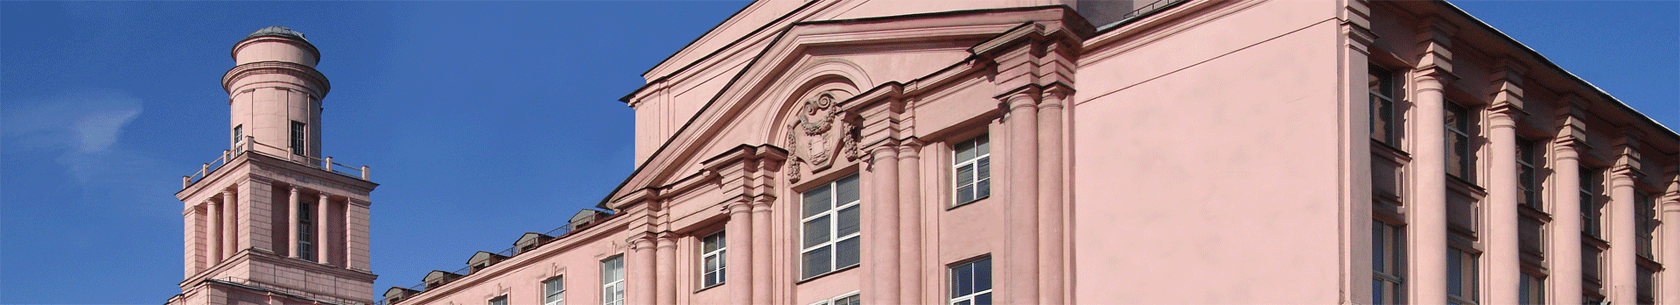
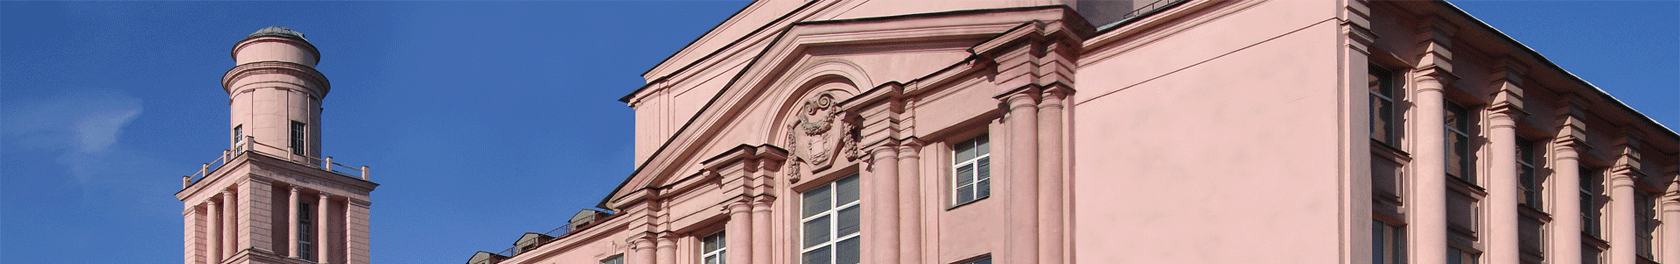
update

diff --git a/app/public/js/controllers.js b/app/public/js/controllers.js
@@ -388,17 +388,15 @@ function NewsCtrl($scope, $routeParams, Courses) {
 
 }
 
-function ShelfCtrl($scope, $routeParams, $timeout, Courses) {
-    
-    var index = 0;
+function ShelfCtrl($scope, $routeParams, Courses) {
+    $scope.currentEdit = -1;
 
-    $scope.posts = Courses.query({courseId: $routeParams.courseId,
+    $scope.posts = Courses.query({
+        courseId: $routeParams.courseId,
         partId: $routeParams.partId},function(){
             //$scope.updateToc();
         });
         
-    //$scope.posts = ["Заголовок 1", "Заголовок длинный 2", "Заголовок очень длинный 3", "Заголовок 4", "Заголовок 5", "Заголовок 6", "Заголовок 7", "Заголовок 8", "Заголовок 9"];
-
     // jQuery UI Sortable
     $scope.dragStart = function(e, ui) {
         ui.item.data('start', ui.item.index());
@@ -409,40 +407,76 @@ function ShelfCtrl($scope, $routeParams, $timeout, Courses) {
 
         $scope.posts.splice(end, 0,
                 $scope.posts.splice(start, 1)[0]);
-                
-        //console.log($scope.posts[start].index);
-        //console.log($scope.posts[end].index);
-        
-        //$scope.posts[end].index = ($scope.posts[end-1].index+$scope.posts[end+1].index)/2;
 
         $scope.$apply();
-        
-        //$scope.updateToc();
     };
     $('#sortable').sortable({
         start: $scope.dragStart,
         update: $scope.dragEnd
     });
     
+    $scope.isEditor = function(id) {
+        if ($scope.currentEdit === id)
+            return true;
+        else
+            return false;
+    };
+    
+    $scope.edit = function(id) {
+        $scope.currentEdit = id;
+        if (id >= 0) {
+            $scope.curr = {
+                //id: $scope.posts[id]._id,
+                title: $scope.posts[id].title,
+                text: $scope.posts[id].text,
+                date: $scope.posts[id].date,
+                author: $scope.posts[id].author
+            };
+            $('#sortable').sortable("disable");
+        } else {
+            delete $scope.curr;
+            $('#sortable').sortable("enable");
+        }
+    };
+    
     $scope.add = function(id) {
-        $scope.posts.splice(id+1,0,{
+        if (typeof id === 'undefined') {
+            id = $scope.posts.length-1;
+        };
+        var post = {
             title: "Заголовок "+$scope.posts.length,
-            text: "Содержание... ",
-            index: index,
-            date: new Date(),
-            author: "anton"
+            text: "Содержание... "
+        };
+        var newPost = new Courses(post);
+        newPost.$save({courseId: $routeParams.courseId,
+            partId: $routeParams.partId}, function(data) {
+            $scope.posts.splice(id+1,0,data);
         });
-        index = index + 100;
-        //$scope.updateToc();
     };
     
     $scope.del = function(id) {
-        this.destroy(function() {
-            $scope.posts.splice(id, 1);
-            //$scope.updateToc();
+        var scope = this;
+        Courses.remove({courseId: $routeParams.courseId,
+            partId: $routeParams.partId,
+            itemId: $scope.posts[id]._id}, function() {
+            scope.destroy(function() {
+                $scope.posts.splice(id, 1);
+            });
         });
     };
     
+    $scope.update = function(id) {
+        var newPost = new Courses($scope.curr);
+        newPost.$update({courseId: $routeParams.courseId,
+            partId: $routeParams.partId,
+            itemId: $scope.posts[id]._id}, function() {
+            $scope.posts[id].title = $scope.curr.title;
+            $scope.posts[id].text = $scope.curr.text;
+            $scope.edit(-1);
+        });
+    };
+    
+    // title of content
     $scope.updateToc = function() {
         if(!$scope.$$phase) {
             $scope.$apply();
@@ -461,9 +495,4 @@ function ShelfCtrl($scope, $routeParams, $timeout, Courses) {
             });
         });
     };
-    
-    // fixme: update wrong
-    $scope.$watch("posts", function() {
-        return $scope.updateToc();
-    }, true);
 }

diff --git a/app/public/courses/tpl/shelf.html b/app/public/courses/tpl/shelf.html
@@ -70,34 +70,34 @@
 
     <div id="sortable">
         <div ng-repeat="item in posts" class="post-item" style="background-color: #fff" fadey="500">
-        <div ng-hide="isEditor($index)" class="box">
-            <div class="toolbar">
-                <a class="button" ng-click="add($index)" title="добавить"><i class="icon-plus"></i></a>
-                <a class="button" ng-click="edit($index)" title="править"><i class="icon-pencil"></i></a>
-                <a class="button" ng-click="del($index)" title="удалить"><i class="icon-trash"></i></a>
+            <div ng-hide="isEditor($index)" class="box">
+                <div class="toolbar">
+                    <a class="button" ng-click="add($index)" title="добавить"><i class="icon-plus"></i></a>
+                    <a class="button" ng-click="edit($index)" title="править"><i class="icon-pencil"></i></a>
+                    <a class="button" ng-click="del($index)" title="удалить"><i class="icon-trash"></i></a>
+                </div>
+                <h3 class="title">{{item.title}}</h3>
+                <div class="desc" ng-bind-html-unsafe="item.text"></div>
+                <div style="font-size: small; text-align: right">
+                    <span class="date">{{item.author}}</span>,
+                    <span class="date">{{item.date | dateToText}}</span>
+                </div>
             </div>
-            <h3 class="title">{{item.title}}</h3>
-            <div class="desc" ng-bind-html-unsafe="item.text"></div>
-            <div style="font-size: small; text-align: right">
-                <span class="date">{{item.author}}</span>,
-                <span class="date">{{item.date | dateToText:'time'}}</span>
+            <div ng-show="isEditor($index)" class="box">
+                <div class="toolbar">
+                    <a class="button" ng-click="update($index)" title="сохранить"><i class="icon-download-alt"></i></a>
+                    <a class="button" ng-click="edit(-1)" title="закрыть"><i class="icon-remove"></i></a>
+                </div>
+                <input type="text" ng-model="curr.title" class="title-editor" placeholder="Заголовок">
+                <p class="date-editor">{{curr.date | dateToText}}</p>
+                <textarea class="desc-editor" ng-model="curr.text"></textarea>
             </div>
-        </div>
-        <div ng-show="isEditor($index)" class="box">
-            <div class="toolbar">
-                <a class="button" ng-click="update($index)" title="сохранить"><i class="icon-download-alt"></i></a>
-                <a class="button" ng-click="edit(-1)" title="закрыть"><i class="icon-remove"></i></a>
-            </div>
-            <input type="text" ng-model="curr.title" class="title-editor" placeholder="Заголовок">
-            <p class="date-editor">{{curr.date | dateToText:'time'}}</p>
-            <textarea class="desc-editor" ng-model="curr.text"></textarea>
-        </div>
-          
-
         </div>
     </div>
 
-    <button ng-click="add()">Add</button>
+    <button ng-show="posts.length == 0" ng-click="add()">Add</button>
+    <!--
     <hr>
     <pre ng-bind="posts|json"></pre>
+    -->
 </div>

diff --git a/app/public/tpl/home.html b/app/public/tpl/home.html
@@ -2,7 +2,7 @@
     .top-block {
         background: url('img/itmo_panorama_1680.png') no-repeat center;
         /*position: absolute;*/
-        height: 305px;
+        height: 264px;
         -webkit-background-size: cover;
         -moz-background-size: cover;
         -o-background-size: cover;
@@ -12,16 +12,16 @@
         margin-bottom: 30px;
     }
     .top-block .text-area {
-        margin: 60px 4px 0 4px;
+        margin: 45px 4px 0 4px;
         background: #04357a;
         background: rgba(4,53,122,0.85);
         border-radius: 25px;
         border-top-right-radius: 60px;
         border-bottom-right-radius: 25px;
-
+        /*
         border: 1px solid #042750;
         box-shadow: 1px 1px 20px #042750;
-
+        */
     }
     .top-block .logo-image {
         float: right;
@@ -102,7 +102,7 @@
 <div class="container">
     <!--<h3 style="color: #0f88cc; font-family: 'Jura'">Курсы</h3>-->
     <div ng-repeat="course in catalog | orderBy:'begin'" style="clear: both; margin-bottom: 20px">
-        <a class="thumbnail" href="#video" ng-click="catalog.name=course.name; catalog.video=course.video" data-toggle="modal" style="text-decoration: none; color: #333; border-radius: 25px; min-height: 160px; padding: 15px">
+        <a class="thumbnail" href="#video" ng-click="catalog.name=course.name; catalog.video=course.video" data-toggle="modal" style="text-decoration: none; color: #333; border-radius: 25px; min-height: 160px; padding: 15px;">
             <div>
                 <img ng-src="courses/{{course.id}}/img/logo.png" style="border-radius: 10px;float: left;margin: 0 20px 0px 0;">
 
@@ -111,7 +111,7 @@
                     <p><span class="circle type2">{{getDiffInWeeks(course.beginDate,course.endDate)}}</span> <span style="font-weight: bold">{{getWeekName(getDiffInWeeks(course.beginDate,course.endDate))}}</span></p>
                 </div>
 
-                <p style="color: #0f88cc; font-family: 'Jura'; font-size: x-large; padding-bottom: 5px;">{{course.name}}</p>
+                <p style="color: #0f88cc; font-family: 'Jura'; font-size: x-large; padding-bottom: 5px; font-weight: bold">{{course.name}}</p>
 
                 <p>{{course.description}}</p>
                 <p>Авторы курса: {{getAuthors(course.authors)}}</p>

diff --git a/app/routes/shelf.js b/app/routes/shelf.js
@@ -12,9 +12,11 @@ var Schema = mongoose.Schema; //Schema.ObjectId
 
 var Shelf = new Schema({
     courseid: {type: String, required: true},
-    index: { type: Number, required: true },
+    author: {type: String, required: true},
+    index: {type: Number, required: true},
     date: { type: Date, required: true },
-    context: {type: String, required: true}
+    title: {type: String, required: true},
+    text: {type: String, required: true}
 });
 
 ShelfModel = mongoose.model('Shelf', Shelf);
@@ -24,7 +26,7 @@ ShelfModel = mongoose.model('Shelf', Shelf);
  */
 
 exports.get = function(req, res) {
-    ShelfModel.find(function(err, data) {
+    ShelfModel.find().sort({ index: 1 }).exec(function(err, data) {
         if (!err) {
             res.json(data); // 200 OK + data
         } else {
@@ -39,9 +41,11 @@ exports.add = function(req, res) {
     
     var newShelf = new ShelfModel({
         courseid: req.params.courseId,
-        userid: userid,
+        author: userid,
+        index: new Date().getTime(),
         date: new Date(),
-        context: req.body.context
+        title: req.body.title,
+        text: req.body.text
     });
     newShelf.save(function(err, data) {
         if (!err) {
@@ -54,7 +58,7 @@ exports.add = function(req, res) {
 };
 
 exports.remove = function(req, res) {
-    newShelf.remove({_id: req.params.itemId, courseid: req.params.courseId},
+    ShelfModel.remove({_id: req.params.itemId, courseid: req.params.courseId},
     function(err) {
         if (!err) {
             res.send(200); // 200 OK
@@ -66,8 +70,8 @@ exports.remove = function(req, res) {
 };
 
 exports.update = function(req, res) {
-    newShelf.update({_id: req.params.itemId, courseid: req.params.courseId},
-    {date: new Date(), context: req.body.context},
+    ShelfModel.update({_id: req.params.itemId, courseid: req.params.courseId},
+    {date: new Date(), title: req.body.title, text: req.body.text},
     function(err) {
         if (!err) {
             res.send(200); // 200 OK

diff --git a/app/routes/profile.js b/app/routes/profile.js
@@ -60,7 +60,7 @@ passport.use(new LocalStrategy({
 function(username, password, done) {
     ProfileModel.findOne({login: username}, function(err, data) {
         if (!err && data && data.passwd === toHash(password)) {
-            return done(null, data._id);
+            return done(null, data.login);
         } else {
             return done(err);
         }
@@ -111,7 +111,7 @@ exports.get = function(req, res) {
     if (!userid)
         return res.send(401); // 401 Unauthorized
 
-    ProfileModel.findById(userid, function(err, data) {
+    ProfileModel.findOne({login: userid}, function(err, data) {
         if (!err) {
             data.passwd = '';
             res.json(data); // 200 OK + data
@@ -129,9 +129,11 @@ exports.update = function(req, res) {
         return res.send(401); // 401 Unauthorized
     
     var profile = {};
+    /*
     if (req.body.login) {
         profile.login = req.body.login;
     }
+    */
     if (req.body.email) {
         profile.email = req.body.email;
     }
@@ -145,7 +147,7 @@ exports.update = function(req, res) {
         profile.courses = req.body.courses;
     }
 
-    ProfileModel.findByIdAndUpdate(userid, profile, function(err) {
+    ProfileModel.findOneAndUpdate({login: userid}, profile, function(err) {
         if (!err) {
             res.send(200); // 200 OK
         } else {
@@ -161,7 +163,7 @@ exports.remove = function(req, res) {
     if (!userid)
         return res.send(401); // 401 Unauthorized
     
-    ProfileModel.remove({userid: userid}, function(err) {
+    ProfileModel.remove({login: userid}, function(err) {
         if (!err) {
             res.send(200); // 200 OK
         } else {
@@ -195,7 +197,7 @@ exports.register = function(req, res) {
     });
     newProfile.save(function(err, data) { 
         if (!err) {
-            req.session.passport.user = data._id;
+            req.session.passport.user = data.login;
             res.send(200); // 200 OK
         } else {
             // if user exists (dublicate)

diff --git a/app/public/js/directives.js b/app/public/js/directives.js
@@ -51,13 +51,15 @@ angular.module('app.directives', [])
             elm = jQuery(elm);
             elm.hide();
             elm.fadeIn(duration, function() {
-                scope.$apply();
+                if(!scope.$$phase) {
+                    scope.$apply();
+                }
             });
 
-            scope.destroy = function(complete) {
+            scope.destroy = function() {
                 elm.fadeOut(duration, function() {
-                    if (complete) {
-                        complete.apply(scope);
+                    if(!scope.$$phase) {
+                        scope.$apply();
                     }
                 });
             };

diff --git a/app/public/index.html b/app/public/index.html
@@ -27,7 +27,7 @@
     <body ng-controller="AppCtrl">
             
         <!-- Header -->
-        <div class="footer" ng-include="'tpl/navbar.html'"></div>
+        <div ng-include="'tpl/navbar.html'"></div>
 
         <!-- Content -->
         <div class="content">
